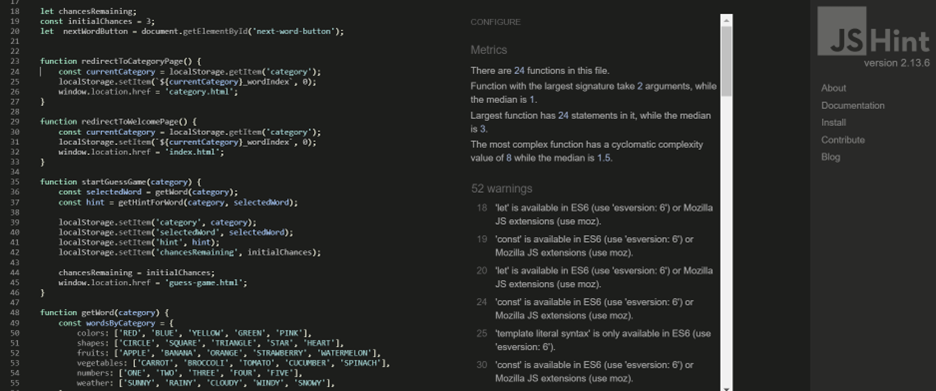
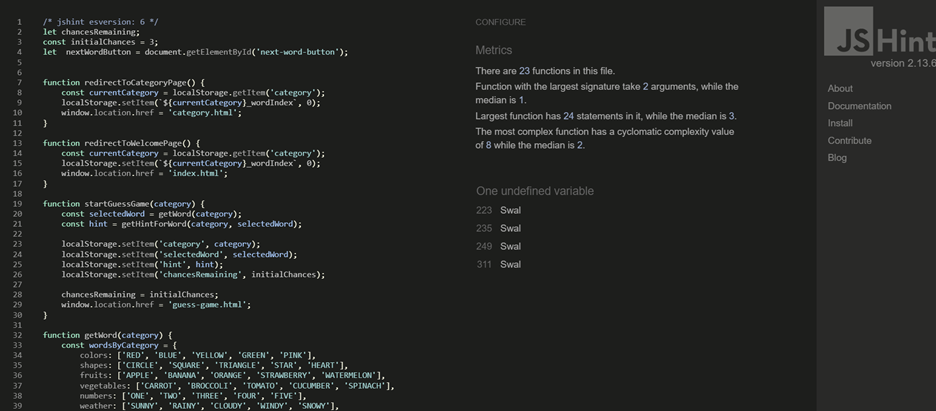
added Bugs and Fixes to readme

diff --git a/guess-game.html b/guess-game.html
@@ -5,6 +5,7 @@
     <meta name="description" content="Guess the Word Game">
     <meta name="viewport" content="width=device-width, initial-scale=1.0">
     <link rel="stylesheet" href="https://cdn.jsdelivr.net/npm/bootstrap@5.3.0/dist/css/bootstrap.min.css">
+    <link rel="stylesheet" href="https://cdn.jsdelivr.net/npm/sweetalert2@10/dist/sweetalert2.min.css">
     <script src="https://cdn.jsdelivr.net/npm/sweetalert2@11/dist/sweetalert2.all.min.js"></script>
     <script src="https://kit.fontawesome.com/45b8f34d90.js" crossorigin="anonymous"></script>
     <link rel="stylesheet" href="assets/css/styles.css">

diff --git a/assets/js/script.js b/assets/js/script.js
@@ -1,3 +1,4 @@
+/* jshint esversion: 6 */
 let chancesRemaining;
 const initialChances = 3;
 let  nextWordButton = document.getElementById('next-word-button');

diff --git a/README.md b/README.md
@@ -251,7 +251,7 @@ To run this project in a local IDE like Visual Studio Code, PyCharm, etc.:
   Validate HTML code to ensure it adheres to the defined standards and correct any markup errors.
   ![Home page](/assets/documentation/screenshoots/HTML%20Validator%20index.png)
   ![Category Page](/assets/documentation/screenshoots/HTML%20Validator%20category.png)
-  ![Guess the Word Page](/assets/documentation/screenshoots/)
+  ![Guess the Word Page](/assets/documentation/screenshoots/HTML%20Validator%20guess.png)
 
 - **CSS Validator:**
   Use a CSS validator to check the stylesheets for compliance with CSS standards and identify and fix any issues.
@@ -275,9 +275,170 @@ To run this project in a local IDE like Visual Studio Code, PyCharm, etc.:
   Regularly check the browser console for any error messages, warnings, or informational logs during development and testing.
   ![Console](/assets/documentation/screenshoots/console.png)
 
+### Client Stories Testing
+
+**Client Story 1:**
+
+ - As a user, I want to enjoy an interactive and challenging game.
+    - Verify that the game interface is engaging and provides a challenging experience.
+    - Check if the game responds promptly to user interactions.
+    - Ensure that the game flow is intuitive and easy to understand.
+
+**Client Story 2:**
+
+ - As a user, I want to receive helpful hints to uncover hidden words.
+    - Confirm that hints are displayed for each word in the game.
+    - Test if hints are relevant and provide assistance in guessing the word.
+    - Ensure that hints are accessible and easy to view during the game.
+
+**Client Story 3:**
+
+ - As a user, I want the game to provide feedback on my performance.
+    - Check if the game provides feedback messages for correct and incorrect guesses.
+    - Verify that the feedback messages are clear and informative.
+    - Test if there is feedback on winning or losing the game.
+    - Confirm that the game communicates the remaining chances to the user.
+
+**Client Story 4:**
+
+ - As a user, I want the option to change the game category.
+    - Test the functionality to change the game category at any point.
+    - Confirm that changing the category resets the game appropriately.
+    - Ensure the user is informed about the category change.
+
+**Client Story 5:**
+
+ - As a user, I want a seamless transition between words in the same category.
+    - Test if moving to the next word within the same category works smoothly.
+    - Confirm that the game resets appropriately for the next word.
+    - Ensure the user experience is consistent across different words in the same category.
+
+**Client Story 6:**
+
+-  As a user, I want the ability to return to the home page easily.
+    -  Test the functionality of the "Home" button.
+    -  Verify that clicking the "Home" button redirects to the home page.
+    -  Confirm that the game state is reset when returning to the home page.
+
 ## Bugs and Fixes
+### Issue 1: Preserving Category Value
+**Bug:** When starting a new game or moving to the next word, the category value is not preserved.
 
+**Fix:** To address this issue, the `localStorage` is used to store and retrieve the current category. When starting a game or moving to the next word, the category is stored in `localStorage` and fetched when needed.
 
+``` javascript
+function redirectToCategoryPage() {
+    const currentCategory = localStorage.getItem('category');
+    localStorage.setItem(`${currentCategory}_wordIndex`, 0);
+    window.location.href = 'category.html';
+}
+```
+
+### Issue 2: Avoiding Word Repetition
+**Bug:** Words can be repeated when the user plays the game, leading to a less challenging experience.
+
+**Fix:** The code now keeps track of the word index for each category in `localStorage`. It ensures that a word is not repeated until all words in the category have been used. If there are no more words in the category, the user is notified, ensuring a diverse and engaging gameplay experience.
+
+```javascript
+function getWord(category) {
+    const wordsByCategory = {
+        // ... (Words for different categories remain unchanged)
+    };
+
+    if (category && wordsByCategory.hasOwnProperty(category)) {
+        const words = wordsByCategory[category];
+
+        if (words && words.length > 0) {
+            let wordIndex = parseInt(localStorage.getItem(`${category}_wordIndex`) || 0);
+
+            if (wordIndex < words.length) {
+                const selectedWord = words[wordIndex];
+                localStorage.setItem(`${category}_wordIndex`, wordIndex + 1);
+
+                return selectedWord;
+            } else {
+                console.log('No more words in the category.');
+                return null;
+            }
+        } else {
+            console.error('Category has no words.');
+        }
+    }
+
+    return null;
+}
+
+```
+### Issue 3: Improved Alert Display
+**Bug:** The alert messages were basic and needed improvement for a better user experience.
+
+**Fix:** The code now utilizes the SweetAlert2 library to display more visually appealing and informative alerts. Different icons and styles are used for success, warning, and error messages, providing a more engaging and user-friendly interface.
+
+```javascript
+Swal.fire({
+                    icon: 'error',
+                    title: 'Oops, You Lose!',
+                    text: `Don't worry, you'll get it next time! The word was: ${secretWord}. Keep trying and have fun!`,
+                    confirmButtonText: 'OK'
+                }).then(() => {
+                   
+                   window.location.href = 'index.html';
+                });
+```
+
+### Issue 4: Replacing Dashes with Chosen Letters
+**Bug:** The challenge was to replace the dashes in the displayed word with the letters chosen by the user during the game.
+
+**Fix:** The code has been modified to dynamically replace the dashes in the displayed word with the correct letters chosen by the user. 
+
+```javascript
+function updateWordDisplay(selectedWord, selectedLetter) {
+    const wordContainer = document.getElementById('word');
+    if (wordContainer) {
+        const wordArray = selectedWord.split('');
+        let updatedWord = wordContainer.textContent.split(' ');
+
+        let isLetterCorrect = false;
+
+        for (let i = 0; i < wordArray.length; i++) {
+            if (wordArray[i] === selectedLetter) {
+                updatedWord[i] = selectedLetter;
+                isLetterCorrect = true;
+            }
+        }
+        const displayWord = updatedWord.join(' ');
+        wordContainer.textContent = displayWord;
+
+        // ... (Rest of the code)
+    }
+}
+
+```
+
+### Issue 5: Creating the Game Board
+**Bug:** The initial implementation lacked a dynamically created game board, affecting the overall interactivity of the game.
+
+**Fix:** The code now dynamically generates the game board, consisting of letter buttons representing the alphabet.
+
+```javascript
+function setupGameBoard() {
+    const gameBoardContainer = document.getElementById('game-board');
+    if (gameBoardContainer) {
+        const alphabet = 'ABCDEFGHIJKLMNOPQRSTUVWXYZ';
+        const alphabetArray = alphabet.split('');
+
+        alphabetArray.forEach(letter => {
+            const letterButton = document.createElement('button');
+            letterButton.textContent = letter;
+            letterButton.addEventListener('click', () => {
+                handleLetterClick(letter);
+            });
+            gameBoardContainer.appendChild(letterButton);
+        });
+    }
+}
+
+```
 ## Credits
 
 
